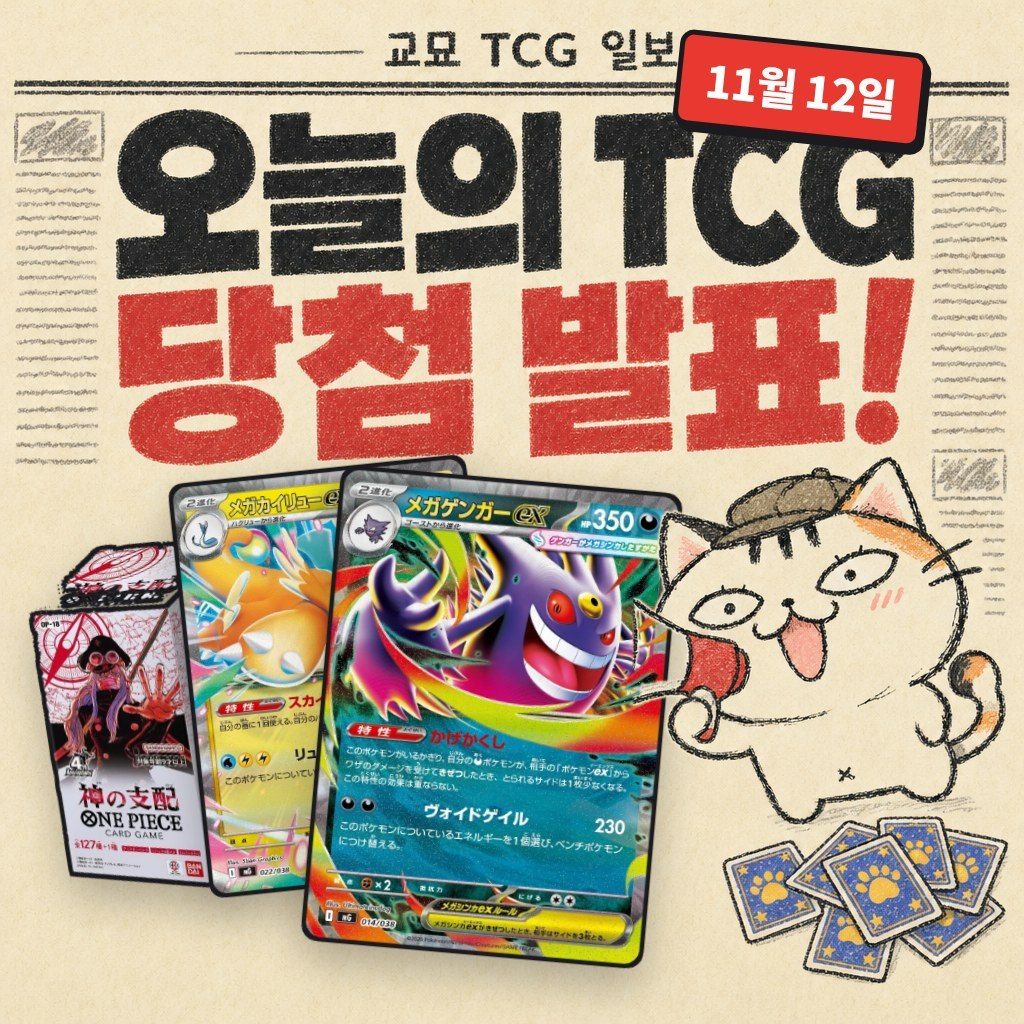
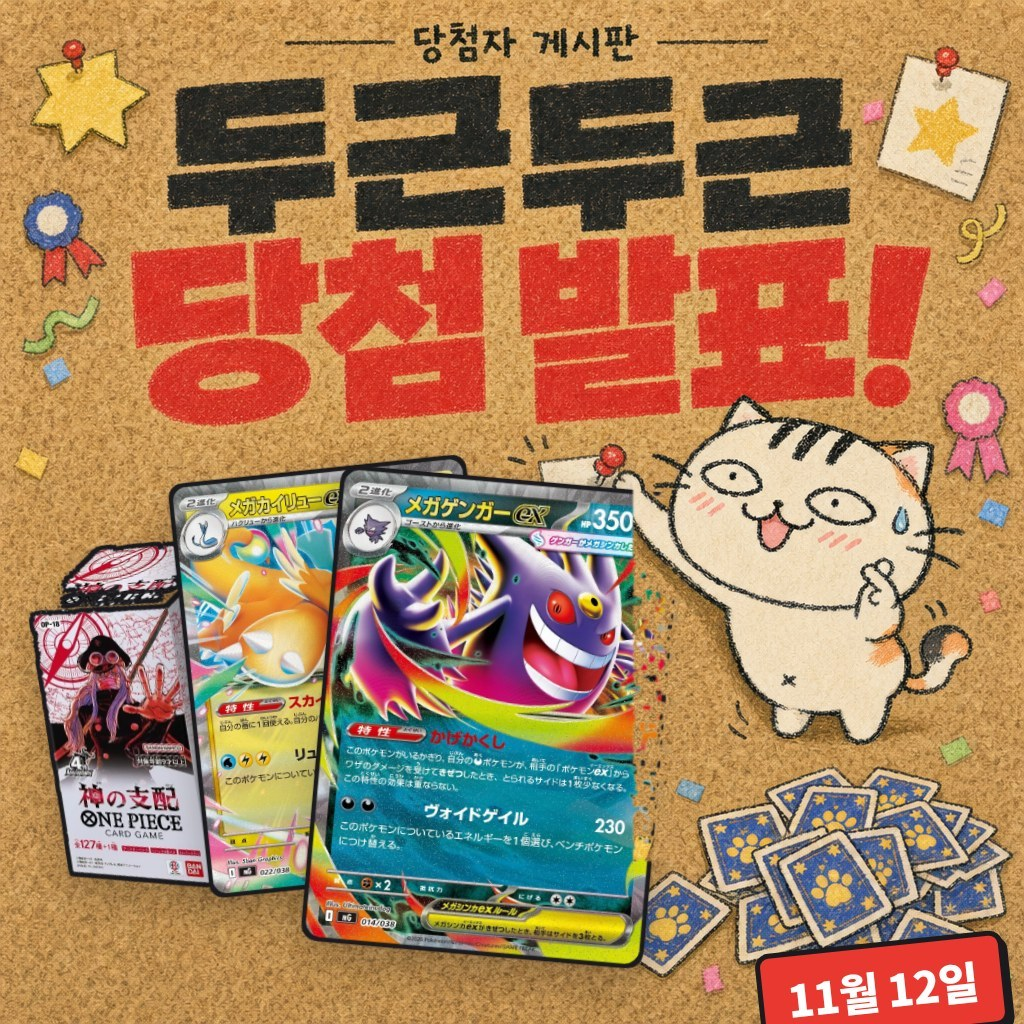
데일리 표지 다양화: 신문 2장 + 시세판·격투게임·추첨쇼·게시판·경고 포스터·개업 전단·항공우편·TV 속보·현상수배지·달력 10가지 콘셉트
Claude-Session: https://claude.ai/code/session_018qZyUqVku944fH1qFr9wAx

diff --git a/_tools/redo_covers.py b/_tools/redo_covers.py
@@ -8,6 +8,12 @@ ROOT = pathlib.Path(__file__).resolve().parent.parent
 POSJ = json.loads((ROOT / "_thumbs" / "cover_positions.json").read_text())
 FRONT = {"A": [[58, 50, 100, 100]], "B": [[0, 50, 42, 100]], "C": [[64, 0, 100, 50]], "D": [[62, 30, 100, 84]]}
 STAMP = {"A": {"x": 66, "y": 4, "r": 6}, "B": {"x": 66, "y": 4, "r": 6}, "C": {"x": 74, "y": 90, "r": -6}, "D": {"x": 66, "y": 4, "r": 6}}
+# 콘셉트 배경마다 제목 길이·교묘 자리가 달라서 날짜별로 덮어쓰는 값
+OVR = {"20261107": {"stamp": {"x": 4, "y": 40, "r": -6},
+                    "items": [{"src": "assets/products/B0H4PQ6LR5.webp", "x": 30, "y": 70, "h": 30, "r": -3, "z": 1},
+                              {"src": "assets/products/op-eb06.webp", "x": 12, "y": 78, "h": 36, "r": -9, "z": 2},
+                              {"src": "assets/cards/m7-maxi-sar.webp", "x": 40, "y": 80, "h": 44, "r": 4, "z": 5, "card": True}]},
+       "20261112": {"stamp": {"x": 74, "y": 92, "r": -6}}}
 BGKEY = {"A": [300, 620], "B": [700, 620], "C": [500, 640], "D": [300, 640]}
 
 
@@ -29,8 +35,9 @@ def layout(items, pos):
 def build(cfg_path, bg, out, pos, stamp_text=None):
     c = json.loads((ROOT / cfg_path).read_text())
     c["bgimg"] = bg; c["out"] = out; c["front"] = FRONT[pos]; c["bgkey"] = BGKEY[pos]; c["tol"] = 70
-    c["items"] = layout(c["items"], pos)
-    if stamp_text: c["stamp"] = dict(STAMP[pos], text=stamp_text)
+    o = OVR.get(pathlib.Path(cfg_path).stem.replace("daily-", ""), {})
+    c["items"] = o["items"] if "items" in o else layout(c["items"], pos)
+    if stamp_text: c["stamp"] = dict(o.get("stamp", STAMP[pos]), text=stamp_text)
     else: c.pop("stamp", None)
     tmp = ROOT / "_thumbs" / "cards" / (pathlib.Path(cfg_path).stem + "-v2.json")
     tmp.write_text(json.dumps(c, ensure_ascii=False, indent=1))
